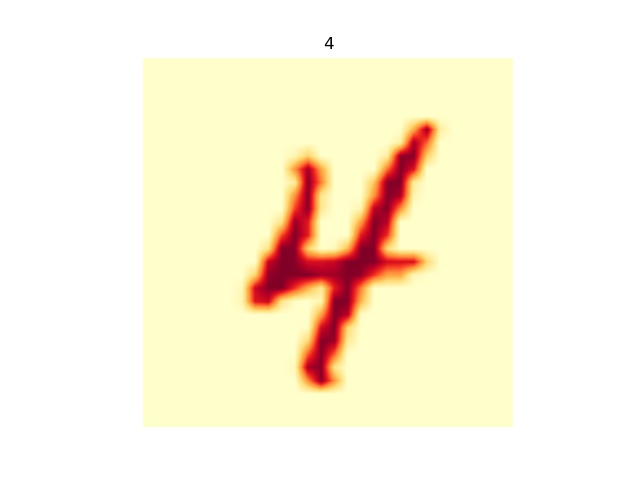
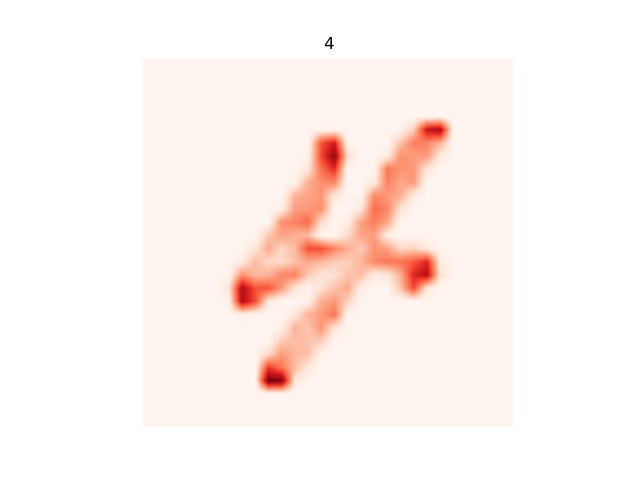
Updated images

diff --git a/taylor.py b/taylor.py
@@ -37,14 +37,14 @@ with tf.Session() as sess:
   w_pos = tf.maximum(0.0, w)
   z = tf.nn.bias_add(tf.matmul(activations[1], w_pos), b) + 1e-10
   s = R[0] / z
-  c = gen_nn_ops.bias_add_grad(tf.matmul(s, tf.transpose(w_pos)))
+  c = tf.matmul(s, tf.transpose(w_pos))
   R[1] = activations[1] * c
   
   w, b = act_weights['fc1']
   w_pos = tf.maximum(0.0, w)
   z = tf.nn.bias_add(tf.matmul(activations[2], w_pos), b) + 1e-10
   s = R[1] / z
-  c = gen_nn_ops.bias_add_grad(tf.matmul(s, tf.transpose(w_pos)))
+  c = tf.matmul(s, tf.transpose(w_pos))
   R[2] = activations[2] * c
 
   R[3] = tf.reshape(R[2], [-1, 14, 14, 64])
@@ -58,14 +58,14 @@ with tf.Session() as sess:
   w_pos = tf.maximum(0.0, w)
   z = tf.nn.bias_add(tf.nn.conv2d(activations[5], w_pos, [1, 1, 1, 1], padding='SAME'), b) + 1e-10
   s = R[4] / z
-  c = gen_nn_ops.bias_add_grad(tf.nn.conv2d_backprop_input(tf.shape(activations[5]), w_pos, s, [1, 1, 1, 1], padding='SAME'))
+  c = tf.nn.conv2d_backprop_input(tf.shape(activations[5]), w_pos, s, [1, 1, 1, 1], padding='SAME')
   R[5] = activations[5] * c
 
   w, b = act_weights['conv1']
   w_pos = tf.maximum(0.0, w)
   z = tf.nn.bias_add(tf.nn.conv2d(activations[6], w_pos, [1, 1, 1, 1], padding='SAME'), b) + 1e-10
   s = R[5] / z
-  c = gen_nn_ops.bias_add_grad(tf.nn.conv2d_backprop_input(tf.shape(activations[6]), w_pos, s, [1, 1, 1, 1], padding='SAME'))
+  c = tf.nn.conv2d_backprop_input(tf.shape(activations[6]), w_pos, s, [1, 1, 1, 1], padding='SAME')
   R[6] = activations[6] * c
 
   heatmap = sess.run(R[6], feed_dict={X: samples})[0].reshape(28, 28)
@@ -75,7 +75,7 @@ with tf.Session() as sess:
   ax = fig.add_subplot(111)
   ax.axis('off')
   ax.set_title(str(digit))
-  ax.imshow(heatmap, cmap='YlOrRd', interpolation='bilinear')
+  ax.imshow(heatmap, cmap='Reds', interpolation='bilinear')
   fig.savefig('./results/{0}.jpg'.format(digit))
 
   plt.show()
